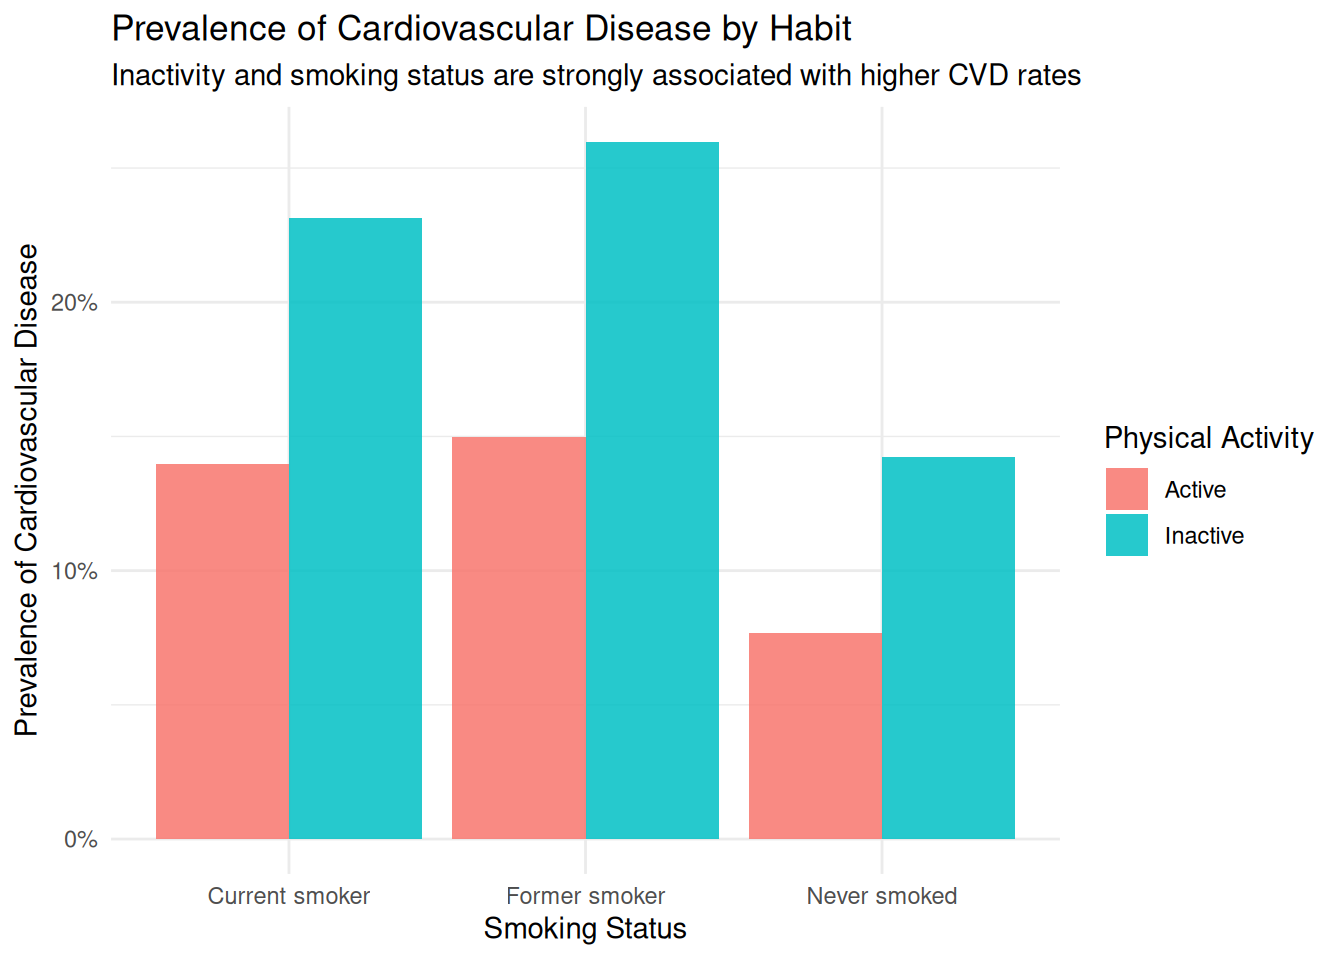
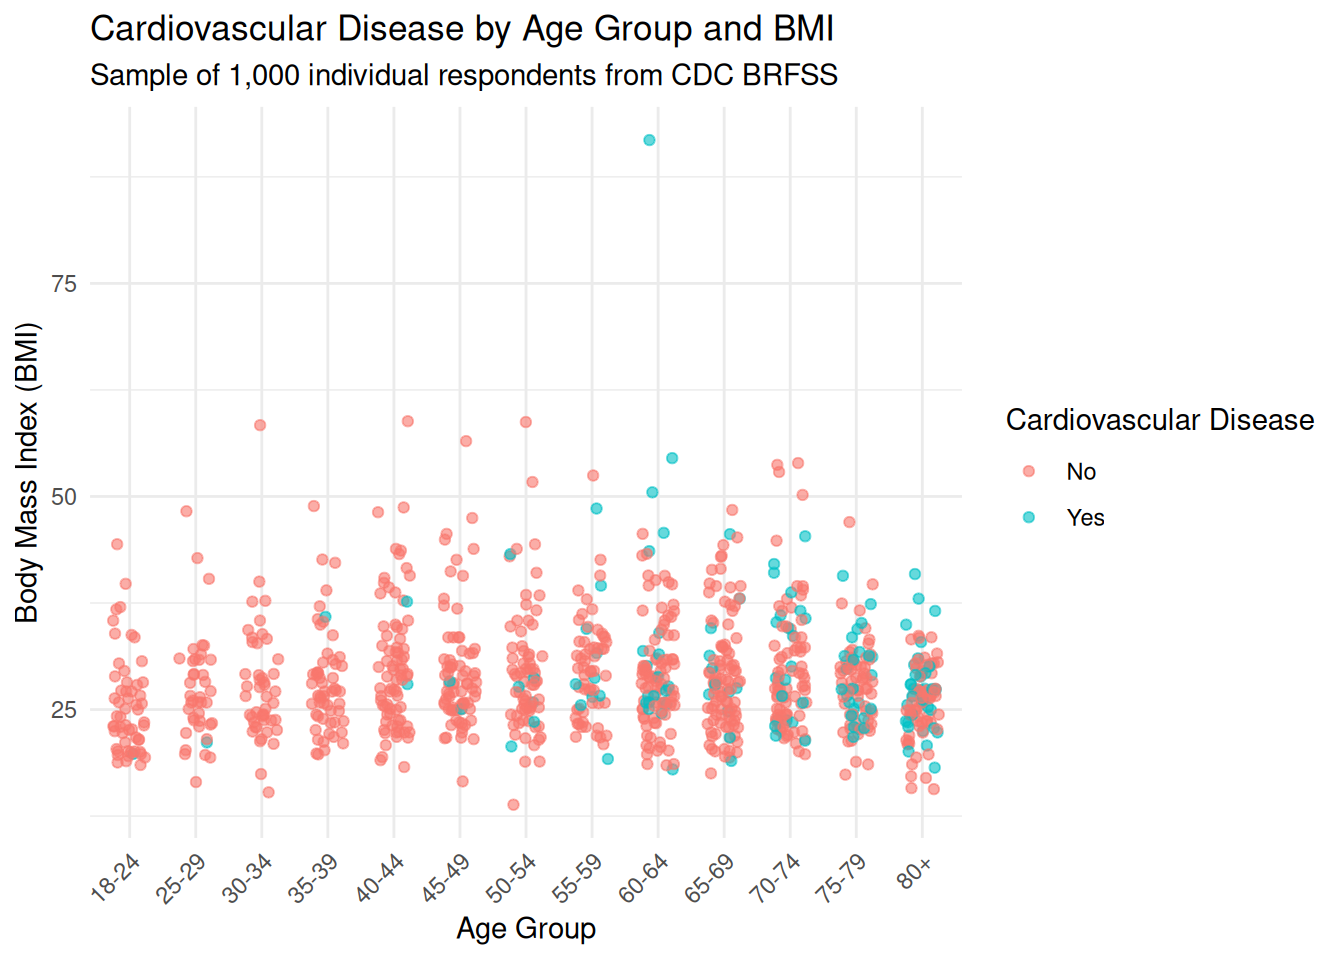
Built site for gh-pages

diff --git a/about.html b/about.html
@@ -217,7 +217,7 @@ ul.task-list li input[type="checkbox"] {
     }
       var localhostRegex = new RegExp(/^(?:http|https):\/\/localhost\:?[0-9]*\//);
       var mailtoRegex = new RegExp(/^mailto:/);
-        var filterRegex = new RegExp('/' + window.location.host + '/');
+        var filterRegex = new RegExp("https:\/\/NicholasTison\.github\.io\/milestone-4\/");
       var isInternal = (href) => {
           return filterRegex.test(href) || localhostRegex.test(href) || mailtoRegex.test(href);
       }

diff --git a/index.html b/index.html
@@ -249,7 +249,7 @@ ul.task-list li input[type="checkbox"] {
     }
       var localhostRegex = new RegExp(/^(?:http|https):\/\/localhost\:?[0-9]*\//);
       var mailtoRegex = new RegExp(/^mailto:/);
-        var filterRegex = new RegExp('/' + window.location.host + '/');
+        var filterRegex = new RegExp("https:\/\/NicholasTison\.github\.io\/milestone-4\/");
       var isInternal = (href) => {
           return filterRegex.test(href) || localhostRegex.test(href) || mailtoRegex.test(href);
       }
